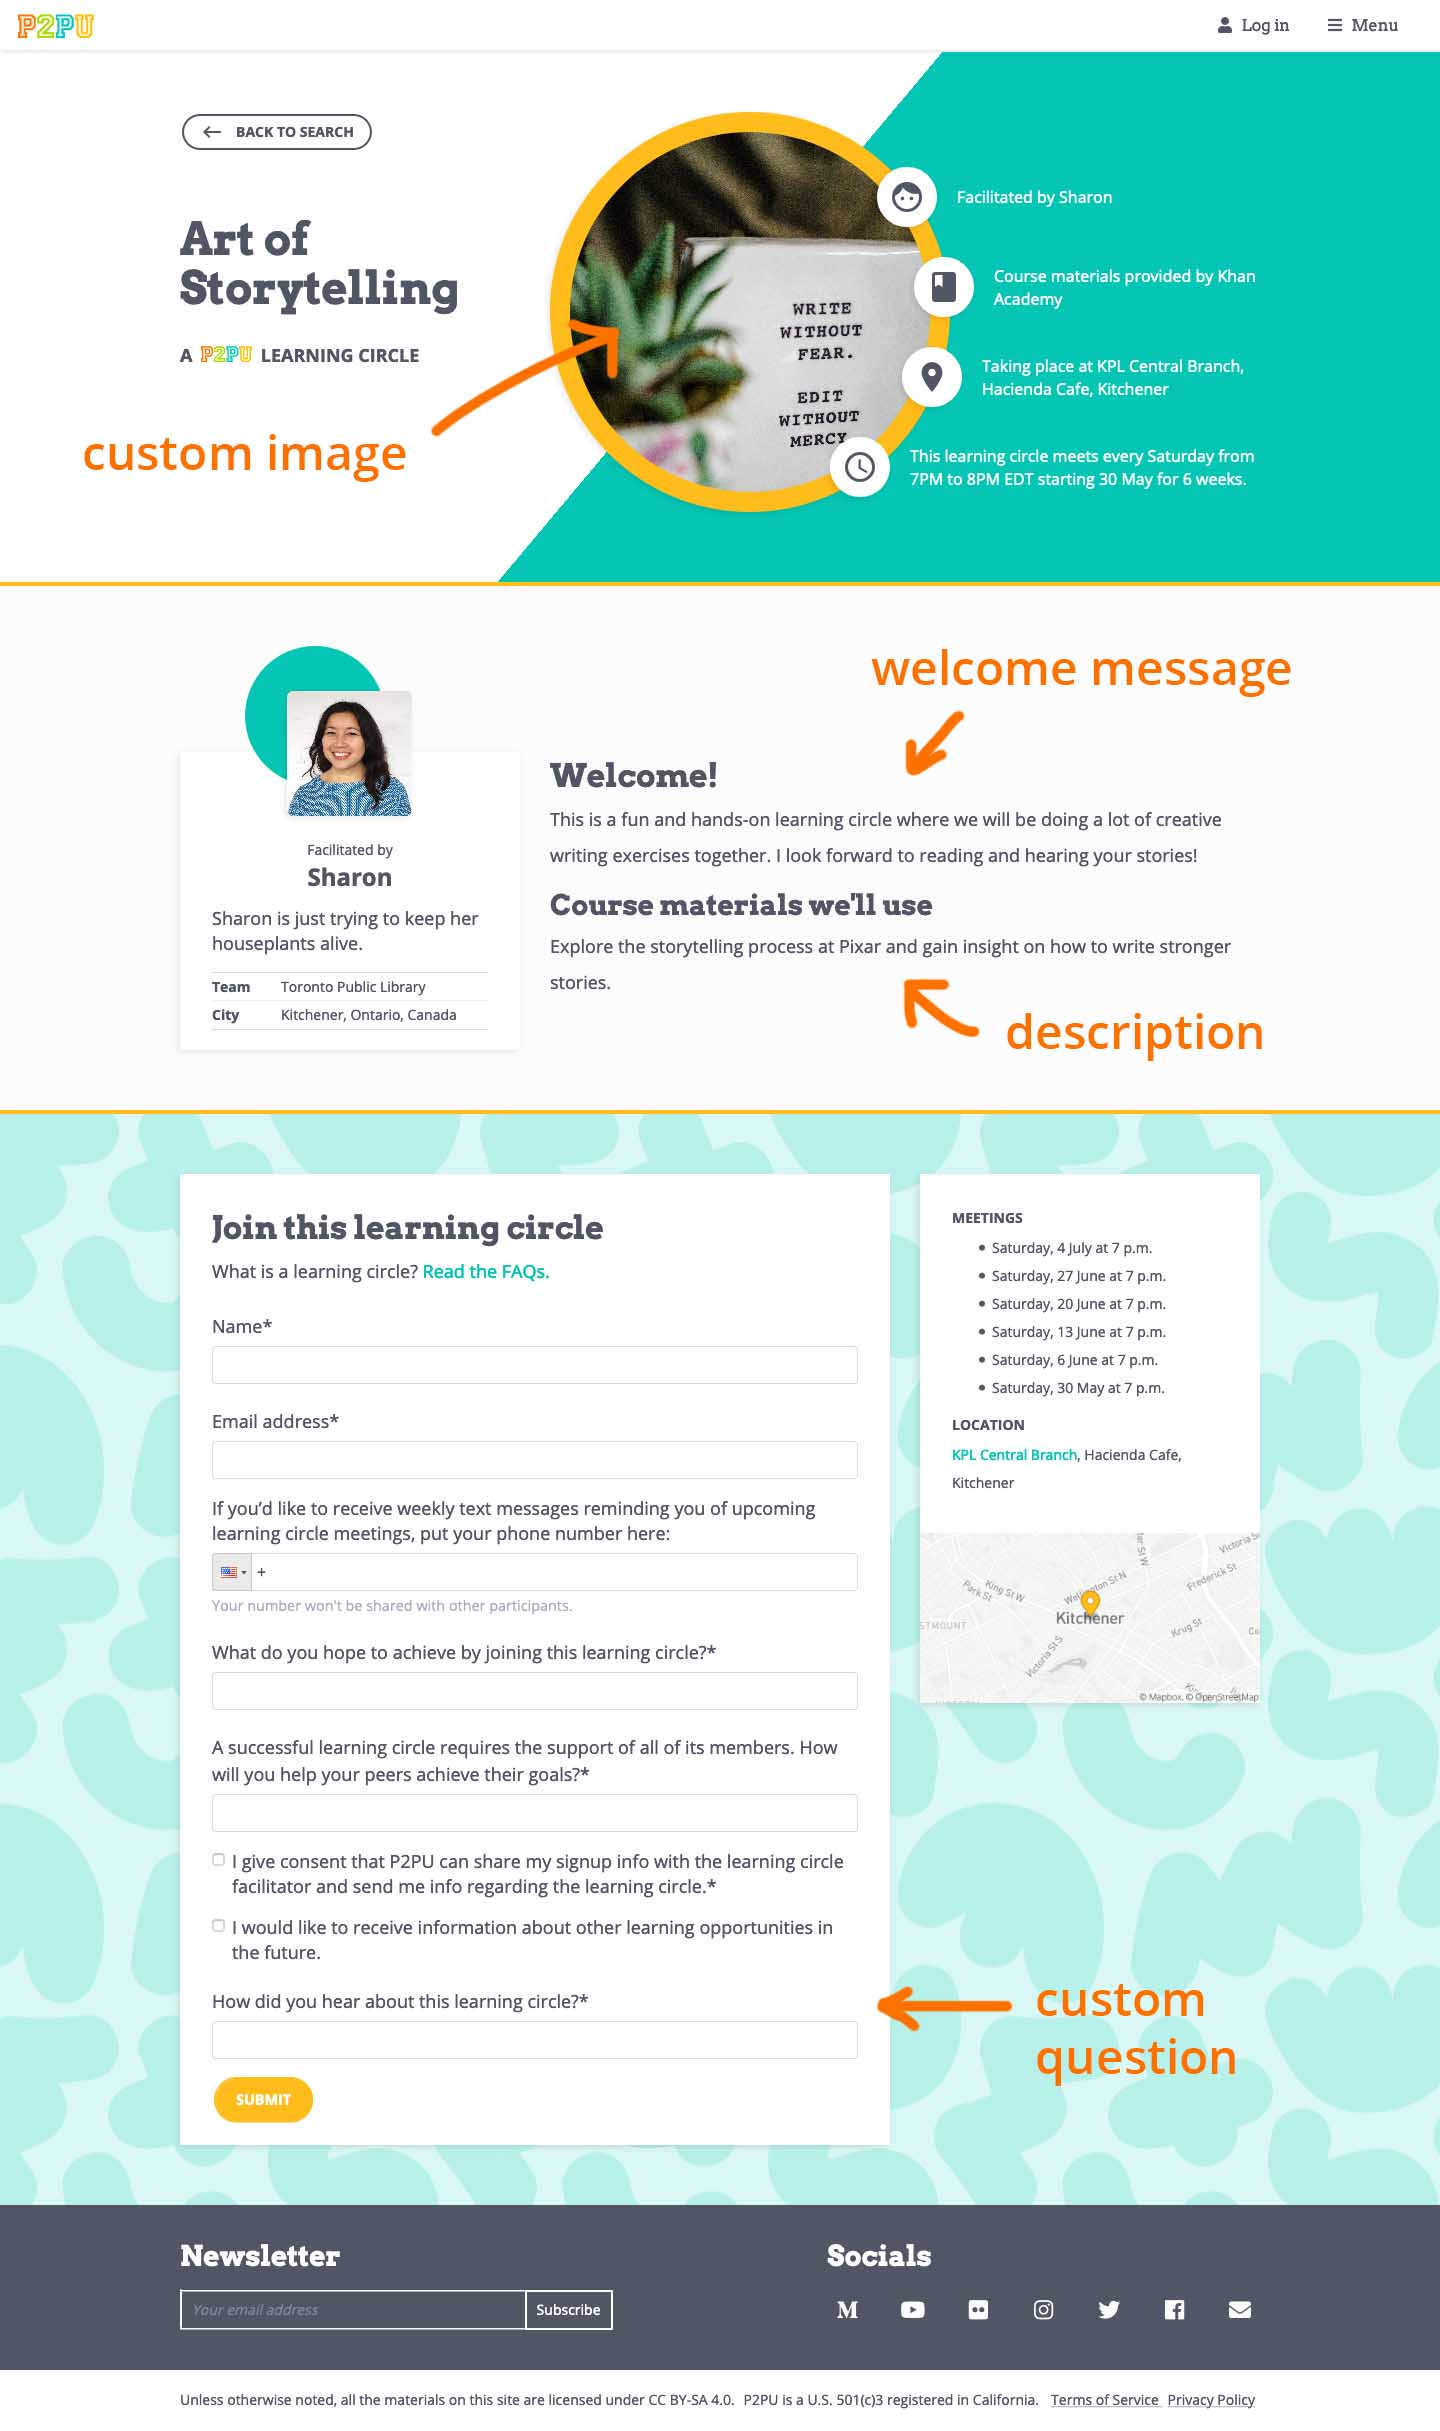
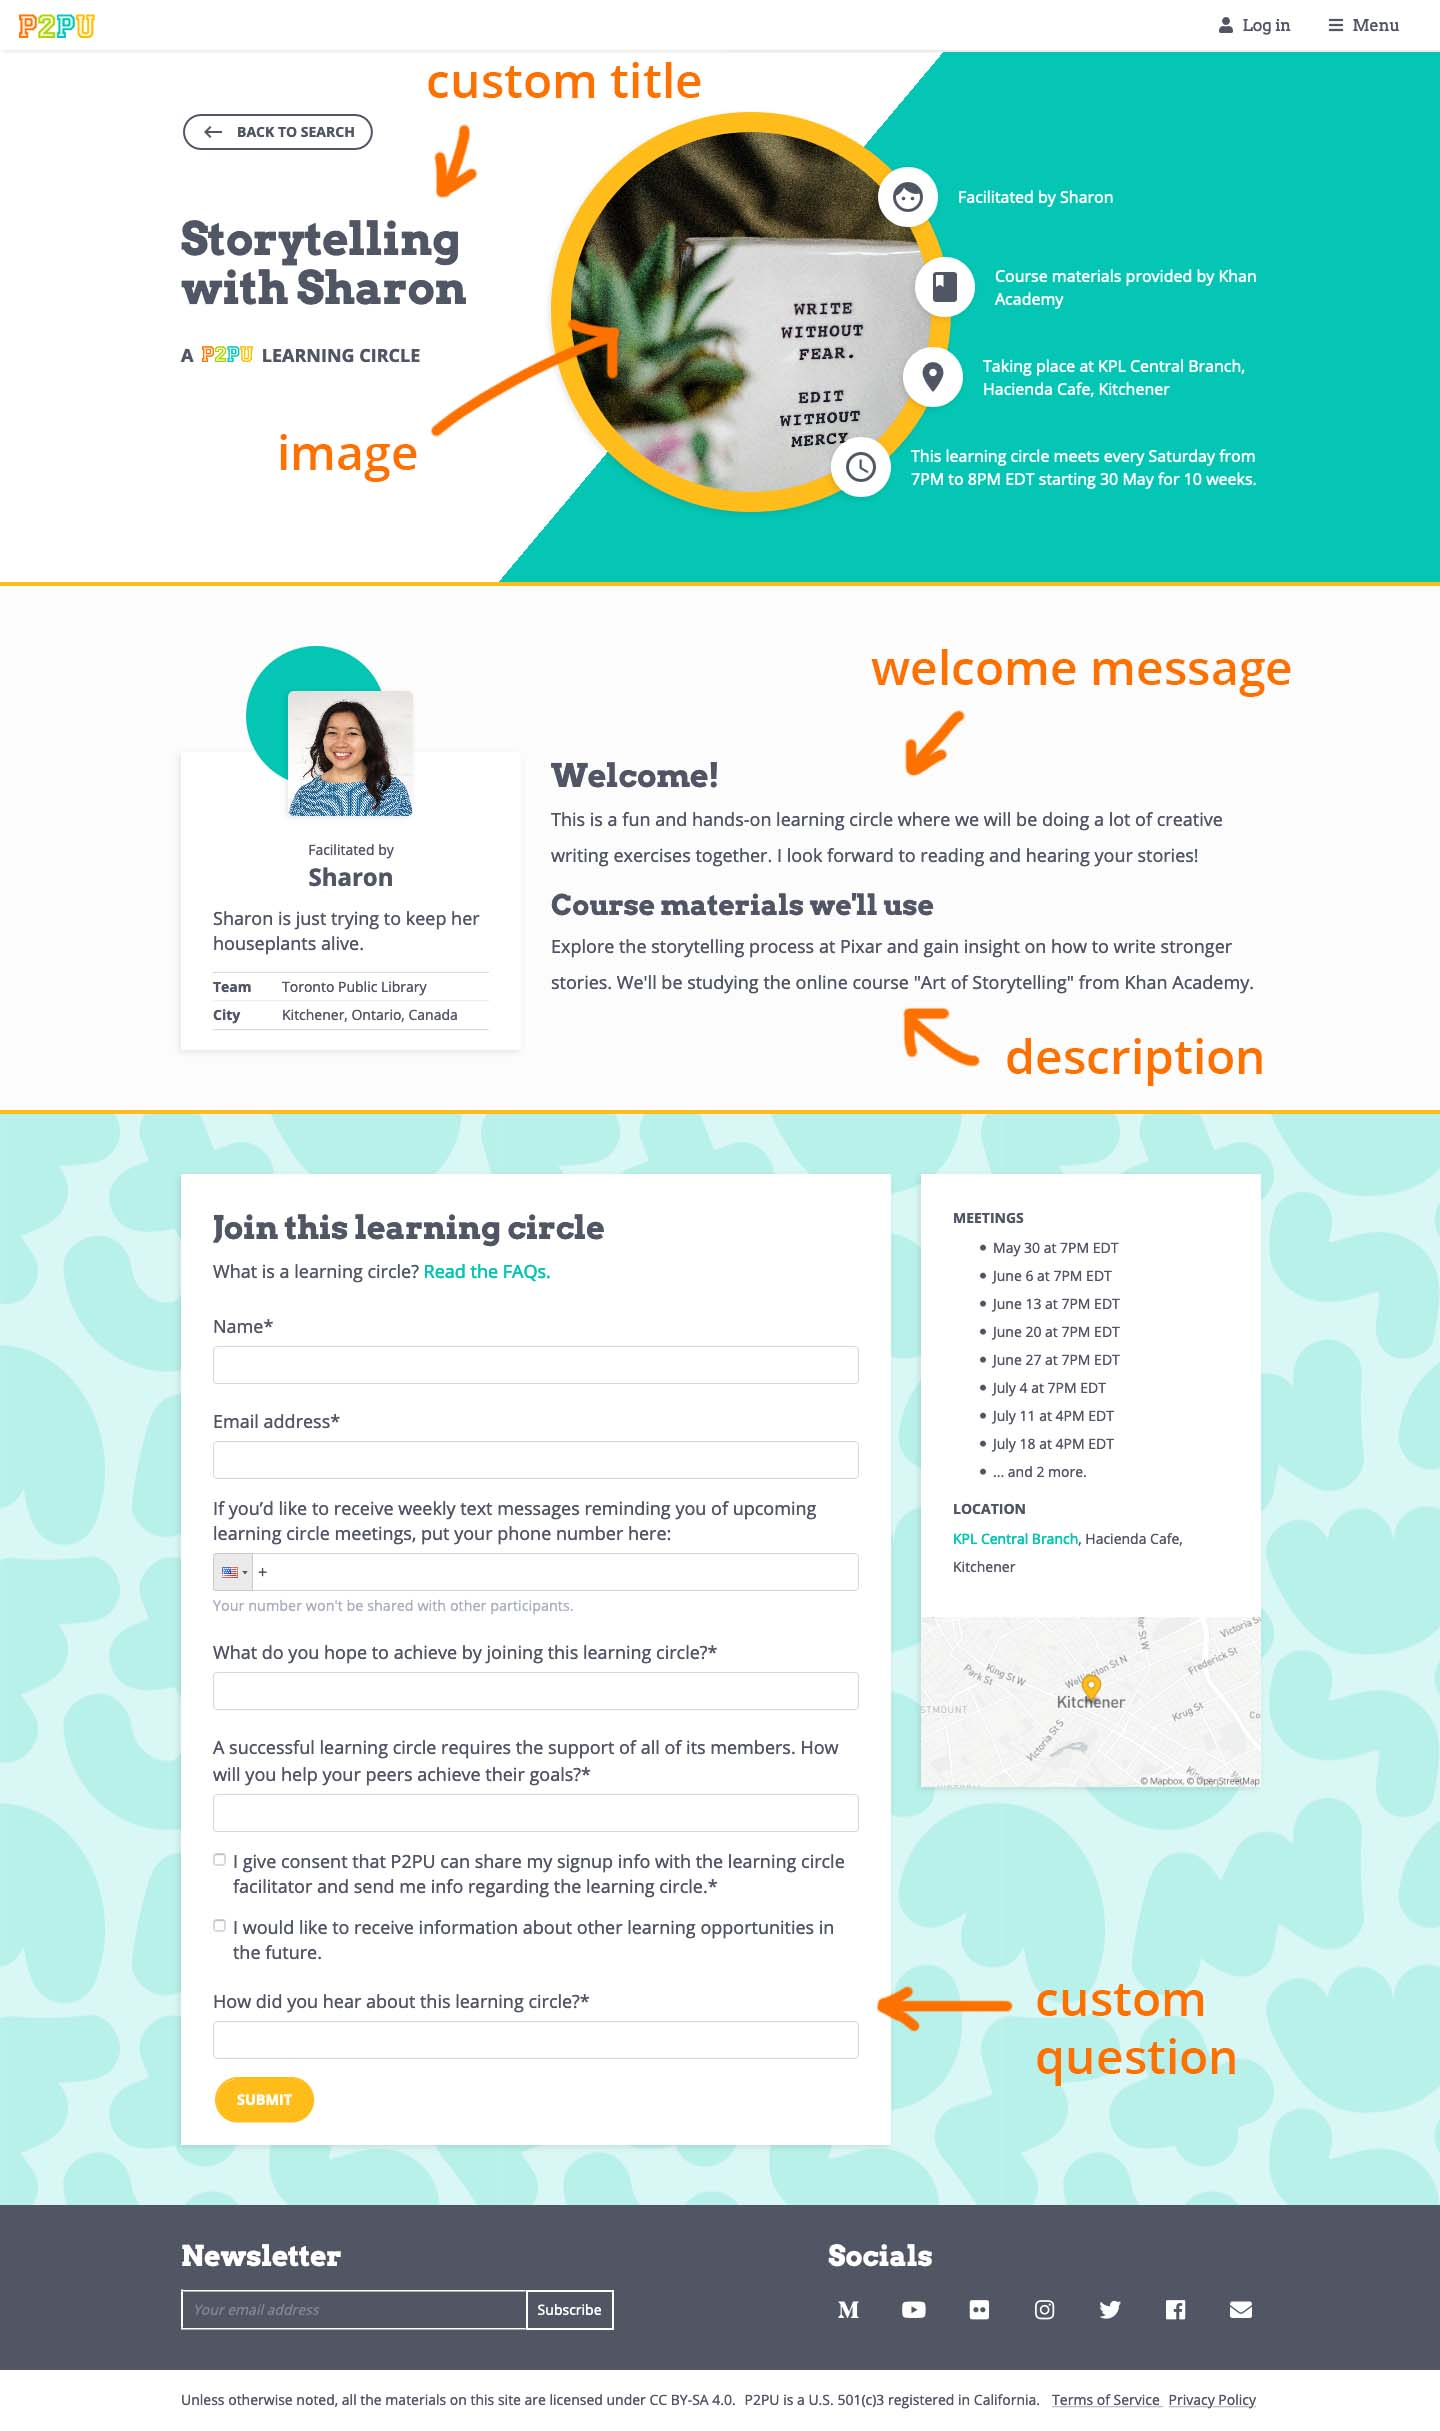
save custom ls name and course description, update help text, make image preview a circle

diff --git a/frontend/components/learning_circle_form/CustomizeSection.jsx b/frontend/components/learning_circle_form/CustomizeSection.jsx
@@ -43,13 +43,68 @@ const CourseDescriptionInput = (props) => {
   )
 }
 
+const TitleInput = (props) => {
+  const onChange = (e) => {
+    console.log('props.name', props.name)
+    console.log('e.currentTarget.value', e.currentTarget.value)
+    props.handleChange({ [props.name]: e.currentTarget.value })
+  }
+
+  const insertCourseTitle = (e) => {
+    e.preventDefault()
+    if (!props.course.caption) {
+      return props.showAlert('Please select a course.', 'warning')
+    }
+
+    props.handleChange({ [props.name]: props.course.title })
+  }
+
+  return(
+    <div className={`input-with-label form-group ${props.classes}`}>
+      <label htmlFor={props.name}>
+        <div>{`Set a custom title for your learning circle. `}<a href="#" onClick={insertCourseTitle}>Copy in the course title.</a></div>
+      </label>
+      <input
+        className='form-control'
+        type={props.type || 'text'}
+        name={props.name}
+        id={props.id}
+        onChange={onChange}
+        value={props.value || props.defaultValue}
+        placeholder={props.placeholder}
+        required={props.required || false}
+        min={props.min}
+        max={props.max}
+        disabled={props.disabled}
+      />
+      {
+        props.errorMessage &&
+        <div className='error-message minicaps'>
+          { props.errorMessage }
+        </div>
+      }
+    </div>
+  )
+}
+
 const CustomizeSection = (props) => {
   const handleImageUpload = ({image}) => {
     props.updateFormData({ image_url: image })
   }
 
+  console.log(props.learningCircle)
+
   return (
     <div>
+      <TitleInput
+        value={props.learningCircle.name || ''}
+        handleChange={props.updateFormData}
+        name={'name'}
+        id={'id_name'}
+        errorMessage={props.errors.name}
+        course={props.learningCircle.course}
+        showAlert={props.showAlert}
+      />
       <TextareaWithLabel
         label={'Share a welcome message with potential learners.'}
         value={props.learningCircle.description || ''}
@@ -94,6 +149,7 @@ const CustomizeSection = (props) => {
         image={props.learningCircle.image_url}
         errorMessage={props.errors.image}
         imageUploadUrl='/api/upload_image/'
+
       />
     </div>
   )

diff --git a/templates/studygroups/signup.html b/templates/studygroups/signup.html
@@ -11,7 +11,7 @@
       <div class="row">
         <div class="col-lg-4">
           <a href="https://www.p2pu.org/en/learning-circles" class="p2pu-btn btn small dark secondary mb-5 py-1 px-3"><span class="material-icons">keyboard_backspace</span>{% trans "Back to search" %}</a>
-          <h1>{{study_group.course.title}}</h1>
+          <h1>{{study_group.name}}</h1>
           <p class="tagline mt-4">{% trans "A" %} <img src="{% static 'images/p2pu-logo.png' %}" alt="P2PU" /> {% trans "learning circle" %}</p>
         </div>
 

diff --git a/frontend/components/stylesheets/learning-circle-form.scss b/frontend/components/stylesheets/learning-circle-form.scss
@@ -123,6 +123,19 @@ html {
     }
   }
 
+  .image-preview {
+    height: 250px;
+    padding-top: 10px;
+
+    img {
+      border-radius: 250px;
+      float: left;
+      background: $p2pu-yellow;
+      border: 12px solid $p2pu-yellow;
+      object-fit: cover;
+    }
+  }
+
   .action-bar {
     z-index: 2;
     position: absolute;

diff --git a/templates/studygroups/studygroup_form.html b/templates/studygroups/studygroup_form.html
@@ -22,6 +22,7 @@
 <script>
   window.lc = window.lc || {};
   var learningCircle = {{ object.to_json|safe }};
+  console.log("learningCircle", learningCircle)
   window.lc = learningCircle;
 </script>
 {% endif %}

diff --git a/studygroups/views/api.py b/studygroups/views/api.py
@@ -109,6 +109,7 @@ def _map_to_json(sg):
             "discourse_topic_url": sg.course.discourse_topic_url if sg.course.discourse_topic_url else settings.PROTOCOL + '://' + settings.DOMAIN + reverse("studygroups_generate_course_discourse_topic", args=(sg.course.id,)),
         },
         "id": sg.id,
+        "name": sg.name,
         "facilitator": sg.facilitator.first_name,
         "venue": sg.venue_name,
         "venue_address": sg.venue_address + ", " + sg.city,
@@ -552,11 +553,13 @@ def _venue_name_check(venue_name):
 
 def _make_learning_circle_schema(request):
     post_schema = {
+        "name": schema.text(length=64),
         "course": schema.chain([
             schema.integer(),
             _course_check,
         ], required=True),
         "description": schema.text(required=True, length=500),
+        "course_description": schema.text(required=True, length=500),
         "venue_name": schema.chain([
             schema.text(required=True, length=256),
             _venue_name_check,
@@ -605,7 +608,9 @@ class LearningCircleCreateView(View):
         # create learning circle
         end_date = data.get('start_date') + datetime.timedelta(weeks=data.get('weeks') - 1)
         study_group = StudyGroup(
+            name=data.get('name', None),
             course=data.get('course'),
+            course_description=data.get('course_description', None),
             facilitator=request.user,
             description=data.get('description'),
             venue_name=data.get('venue_name'),
@@ -630,9 +635,23 @@ class LearningCircleCreateView(View):
             facilitator_goal=data.get('facilitator_goal', ''),
             facilitator_concerns=data.get('facilitator_concerns', '')
         )
+
+        # use course.caption if course_description is not set
+        if study_group.course_description is None:
+            course = Course.objects.get(pk=int(study_group.course))
+            study_group.course_description = course.caption
+
+        # use course.title if name is not set
+        if study_group.name is None:
+            course = Course.objects.get(pk=int(study_group.course))
+            study_group.name = course.title
+
         # only update value for draft if the use verified their email address
         if request.user.profile.email_confirmed_at is not None:
             study_group.draft = data.get('draft', True)
+
+        print(study_group.name)
+        print(study_group.course_description)
         study_group.save()
 
         # generate all meetings if the learning circle has been published
@@ -688,8 +707,10 @@ class LearningCircleUpdateView(SingleObjectMixin, View):
             published = study_group.draft is True
             study_group.draft = False
 
+        study_group.name = data.get('name')
         study_group.course = data.get('course')
         study_group.description = data.get('description')
+        study_group.course_description = data.get('course_description')
         study_group.venue_name = data.get('venue_name')
         study_group.venue_address = data.get('venue_address')
         study_group.venue_details = data.get('venue_details')

diff --git a/studygroups/models/learningcircle.py b/studygroups/models/learningcircle.py
@@ -62,7 +62,7 @@ class StudyGroupQuerySet(SoftDeleteQuerySet):
 
 
 class StudyGroup(LifeTimeTrackingModel):
-    name = models.CharField(max_length=128, default=_study_group_name)
+    name = models.CharField(max_length=64, default=_study_group_name)
     course = models.ForeignKey(Course, on_delete=models.CASCADE)
     description = models.CharField(max_length=500)
     course_description = models.CharField(max_length=500, blank=True)
@@ -155,9 +155,11 @@ class StudyGroup(LifeTimeTrackingModel):
         sg = self  # TODO - this logic is repeated in the API class
         data = {
             "id": sg.pk,
+            "name": sg.name,
             "course": sg.course.id,
             "course_title": sg.course.title,
             "description": sg.description,
+            "course_description": sg.course_description,
             "venue_name": sg.venue_name,
             "venue_details": sg.venue_details,
             "venue_address": sg.venue_address,
@@ -199,7 +201,7 @@ class StudyGroup(LifeTimeTrackingModel):
         return json.dumps(self.to_dict(), cls=DjangoJSONEncoder)
 
     def __str__(self):
-        return '{0} - {1}s {2} at the {3}'.format(self.course.title, self.day(), self.meeting_time, self.venue_name)
+        return '{0} - {1}s {2} at the {3}'.format(self.name, self.day(), self.meeting_time, self.venue_name)
 
 
 class Application(LifeTimeTrackingModel):
